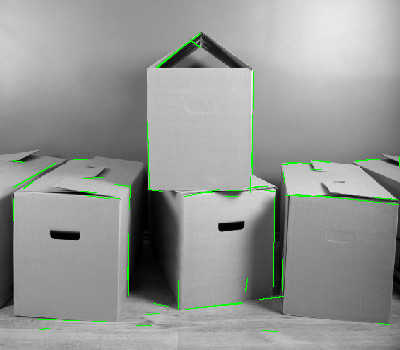
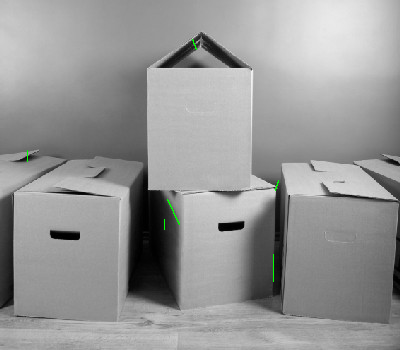
apresentacao

diff --git a/Assignment#2/Entrega/matlab/NMS.m b/Assignment#2/Entrega/matlab/NMS.m
@@ -2,7 +2,7 @@ function [imgOUT] = NMS(imgIN,threshold,type,NMSsize)
 %0 - gradient NMS
 %1 - neighbors NMS - default
 
-if nargin < 1
+if nargin < 1 %quantidade de parametros da funcao
     error('Error. \nNot enough inputs.');
 elseif nargin == 1
     warning('Calling this function without threshold can take a while.');
@@ -64,7 +64,7 @@ for index = 1:sizeRow
         else
             temp = imgP;
             temp(2,2) = 0;
-            if imgP(2,2) > max(temp)
+            if factor > max(temp,[],'all')
                 imgOUT(Frow(index),Fcol(index)) = factor;
             end
         end
@@ -72,7 +72,7 @@ for index = 1:sizeRow
         imgP(1:NMSsize,1:NMSsize) = padIMG(Frow(index):Frow(index)+(NMSsize-1),Fcol(index):Fcol(index)+(NMSsize-1));
         temp = imgP;
         temp(centerIndex,centerIndex) = 0;
-        if imgP(centerIndex,centerIndex) > max(temp)
+        if imgP(centerIndex,centerIndex) > max(temp,[],'all')
             imgOUT(Frow(index),Fcol(index)) = 1;
         end
     end

diff --git a/Assignment#2/Entrega/matlab/HarrisCorner.m b/Assignment#2/Entrega/matlab/HarrisCorner.m
@@ -8,16 +8,13 @@ function [Pts] = HarrisCorner(img0,thresh,sigma_d,sigma_i,NMS_size)
     ksx = -fspecial('sobel')';
     ksy = fspecial('sobel');
                  
-    
     kernelgX = ImageFilter(kg,ksx); %suavizar a imagem usando o filtro gaussiano
     kernelgY = ImageFilter(kg,ksy);
     kernelgXY = ImageFilter(kernelgX,kernelgY);
     
-    
     Igx = ImageFilter(img0,kernelgX);
     Igy = ImageFilter(img0,kernelgY);
     Igxy = ImageFilter(img0,kernelgXY);
-    
     
     Igxg = ImageFilter(Igx.^2,kgi);
     Igyg = ImageFilter(Igy.^2,kgi);

diff --git a/Assignment#1/Entrega/matlab/HoughTransform.m b/Assignment#1/Entrega/matlab/HoughTransform.m
@@ -32,5 +32,5 @@ end
 end
 
 function d = distance(x,y,itheta)
-    d = (x*co(itheta) + y*si(itheta));
+    d = (x*cos(itheta) + y*sin(itheta));
 end
